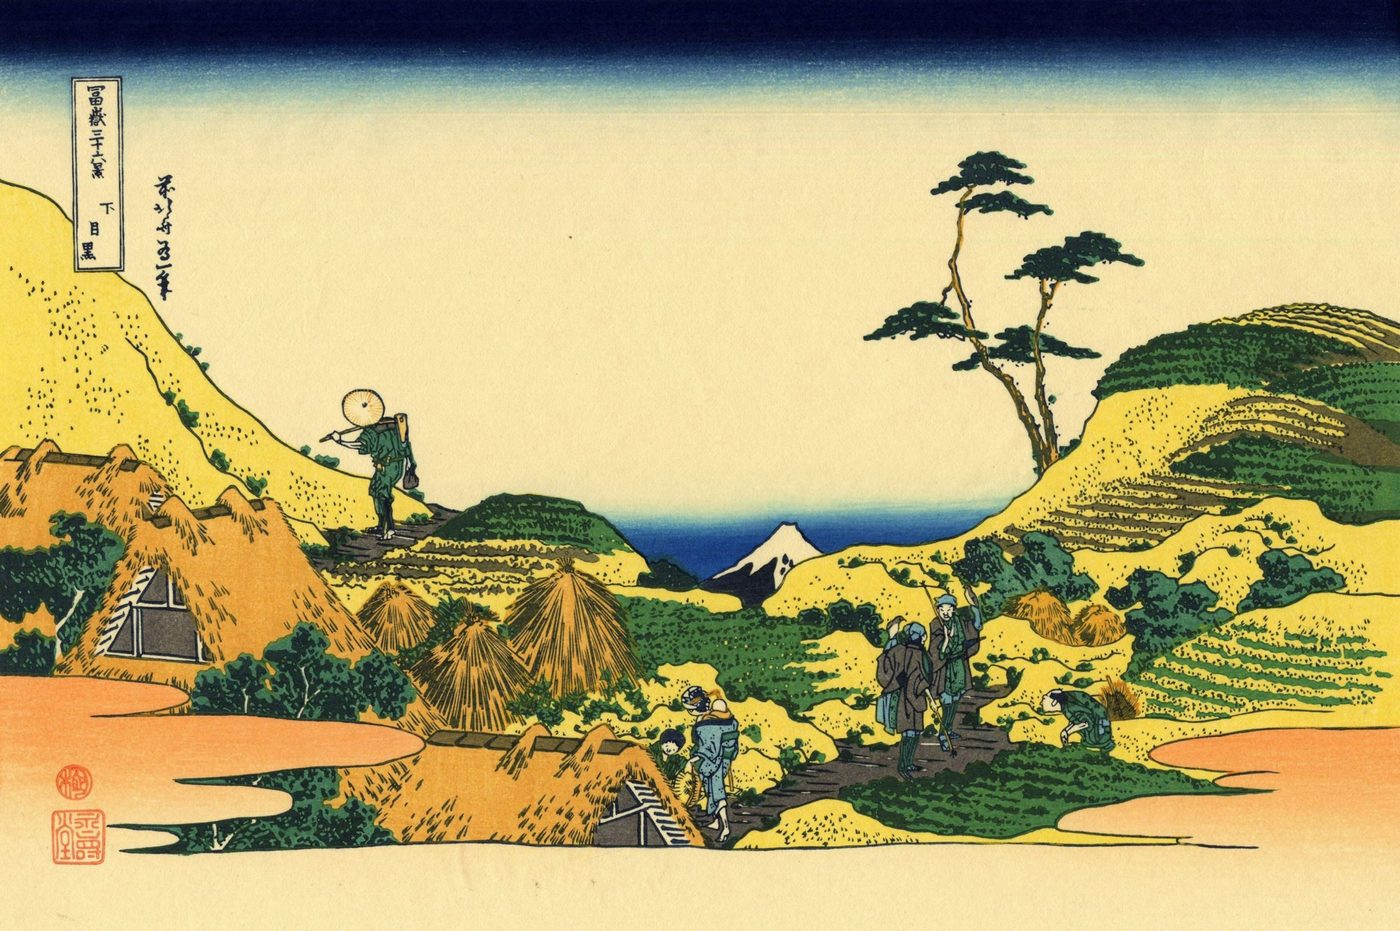
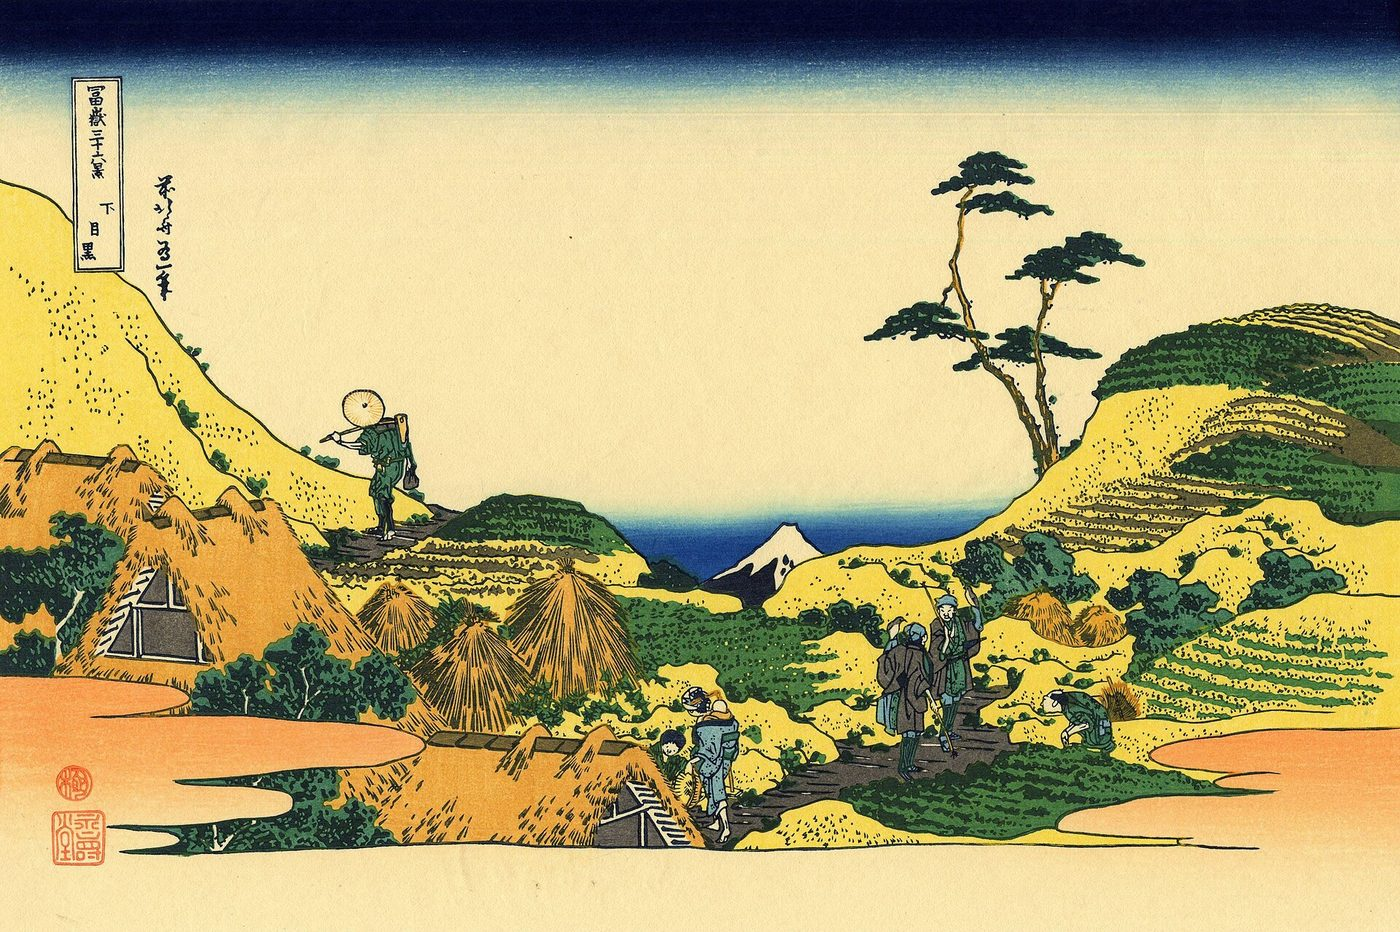
Art: cleaner scans of 御殿山・伊沢暁・下目黒; add 三嶌越 and 関屋の里
Claude-Session: https://claude.ai/code/session_016vmSLpgeM9yynBTtrBGmFT

diff --git a/app.abf0688d.js b/app.abf0688d.js
@@ -6808,6 +6808,8 @@
         { src: 'art/shichiri.jpg', paper: '#ece4d2', pos: '62% 50%', title: '相州七里濱', ruby: [['相州', 'そうしゅう'], ['七里濱', 'しちりがはま']], en: 'Shichirigahama in Sagami Province', series: '富嶽三十六景', artist: '葛飾北斎', artistEn: 'Katsushika Hokusai', year: '1830–32年頃' },
         { src: 'art/inume.jpg', paper: '#ece4d2', pos: '38% 50%', title: '甲州犬目峠', ruby: [['甲州', 'こうしゅう'], ['犬目峠', 'いぬめとうげ']], en: 'Inume Pass in Kai Province', series: '富嶽三十六景', artist: '葛飾北斎', artistEn: 'Katsushika Hokusai', year: '1830–32年頃' },
         { src: 'art/isawa.jpg', paper: '#ece4d2', pos: '40% 50%', title: '甲州伊沢暁', ruby: [['甲州', 'こうしゅう'], ['伊沢', 'いさわ'], ['暁', 'あかつき']], en: 'Dawn at Isawa in Kai Province', series: '富嶽三十六景', artist: '葛飾北斎', artistEn: 'Katsushika Hokusai', year: '1830–32年頃' },
+        { src: 'art/mishima.jpg', paper: '#ece4d2', pos: '55% 50%', title: '甲州三嶌越', ruby: [['甲州', 'こうしゅう'], ['三嶌越', 'みしまごえ']], en: 'Mishima Pass in Kai Province', series: '富嶽三十六景', artist: '葛飾北斎', artistEn: 'Katsushika Hokusai', year: '1830–32年頃' },
+        { src: 'art/sekiya.jpg', paper: '#ece4d2', pos: '45% 50%', title: '隅田川関屋の里', ruby: [['隅田川', 'すみだがわ'], ['関屋', 'せきや'], 'の', ['里', 'さと']], en: 'Sekiya Village on the Sumida River', series: '富嶽三十六景', artist: '葛飾北斎', artistEn: 'Katsushika Hokusai', year: '1830–32年頃' },
         { src: 'art/wave.jpg', paper: '#ece4d2', pos: '40% 50%', title: '神奈川沖浪裏', ruby: [['神奈川', 'かながわ'], ['沖', 'おき'], ['浪裏', 'なみうら']], en: 'Under the Wave off Kanagawa (The Great Wave)', series: '富嶽三十六景', artist: '葛飾北斎', artistEn: 'Katsushika Hokusai', year: '1830–32年頃' },
         { src: 'art/ume.jpg', paper: '#ece4d2', pos: '50% 60%', title: '蒲田の梅園', ruby: [['蒲田', 'かまた'], 'の', ['梅園', 'うめぞの']], en: 'The Plum Garden at Kamata', series: '東都名所', artist: '歌川広重', artistEn: 'Utagawa Hiroshige', year: '1830年代' },
         { src: 'art/haboku.jpg', paper: '#d9cfb3', pos: '45% 50%', title: '破墨山水図', ruby: [['破墨', 'はぼく'], ['山水図', 'さんすいず']], en: 'Landscape in the Splashed-ink Style', series: '水墨画', artist: '作者未詳', artistEn: 'artist unknown', year: '室町時代（16世紀頃）' },

diff --git a/sw.js b/sw.js
@@ -2,7 +2,7 @@
 // The page itself (index.html) is always asked for fresh, so updates show right away; the big script and style
 // files carry a fingerprint in their names and never change once published, so they are kept on the device and
 // served from there, and only re-downloaded when a new version has a new name.
-var ASSETS = ["app.f7c3cbd6.js", "gistsync.0d0b2fab.js", "omikuji.a7ff0fcb.js", "opening.ba01fa98.js", "styles.b7eeddab.css"];
+var ASSETS = ["app.abf0688d.js", "gistsync.0d0b2fab.js", "omikuji.a7ff0fcb.js", "opening.ba01fa98.js", "styles.b7eeddab.css"];
 var CACHE = 'mogi-' + ASSETS.join('|').length + '-' + ASSETS.map(function(a) { return a.split('.')[1]; }).join('');
 var FINGERPRINTED = /\.[0-9a-f]{8}\.(js|css)$/;
 self.addEventListener('install', function(e) {

diff --git a/index.html b/index.html
@@ -369,6 +369,6 @@
 </script>
 <script src="opening.ba01fa98.js"></script>
 <script src="omikuji.a7ff0fcb.js"></script>
-<script src="app.f7c3cbd6.js"></script>
+<script src="app.abf0688d.js"></script>
 </body>
 </html>
